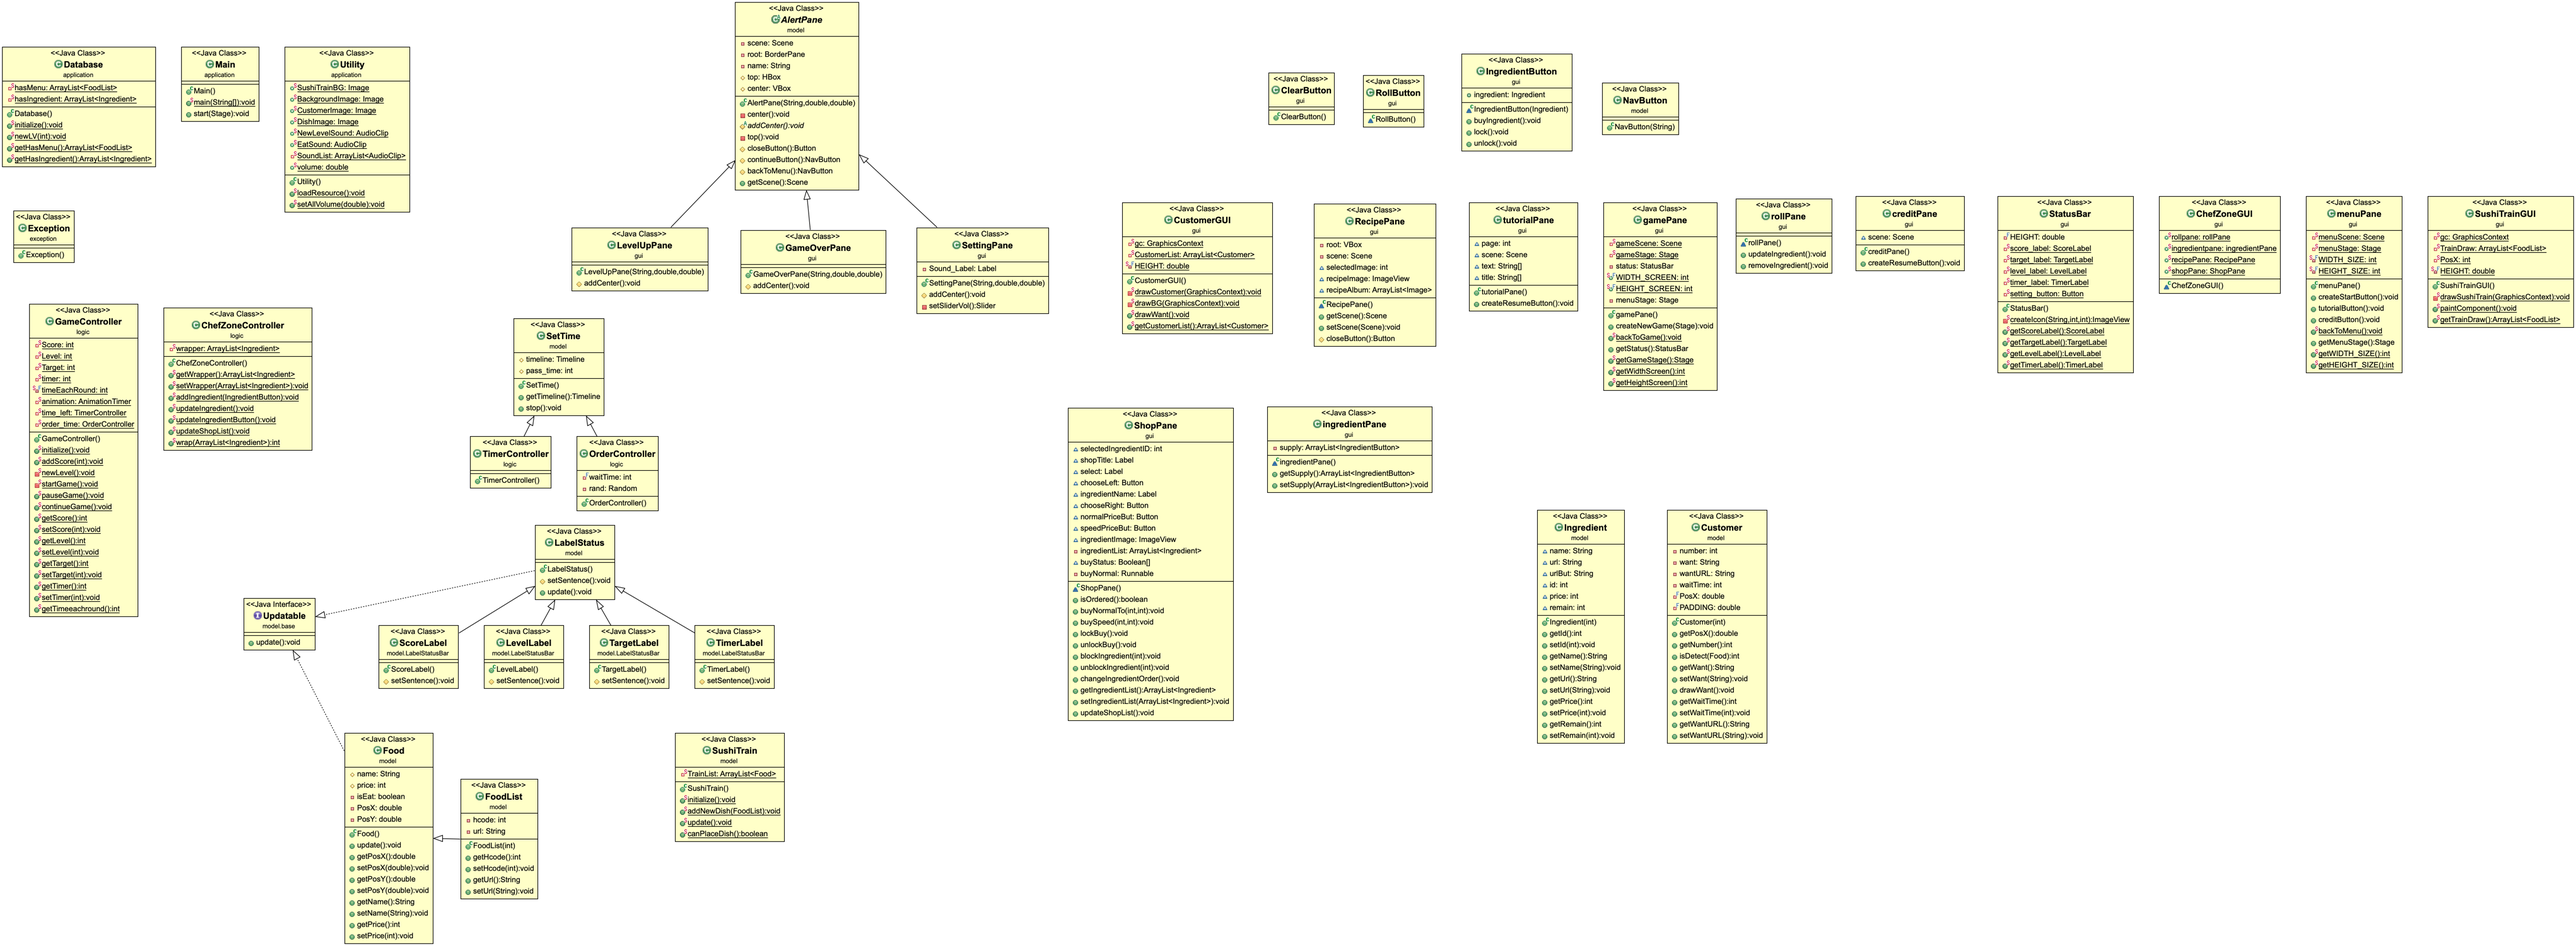
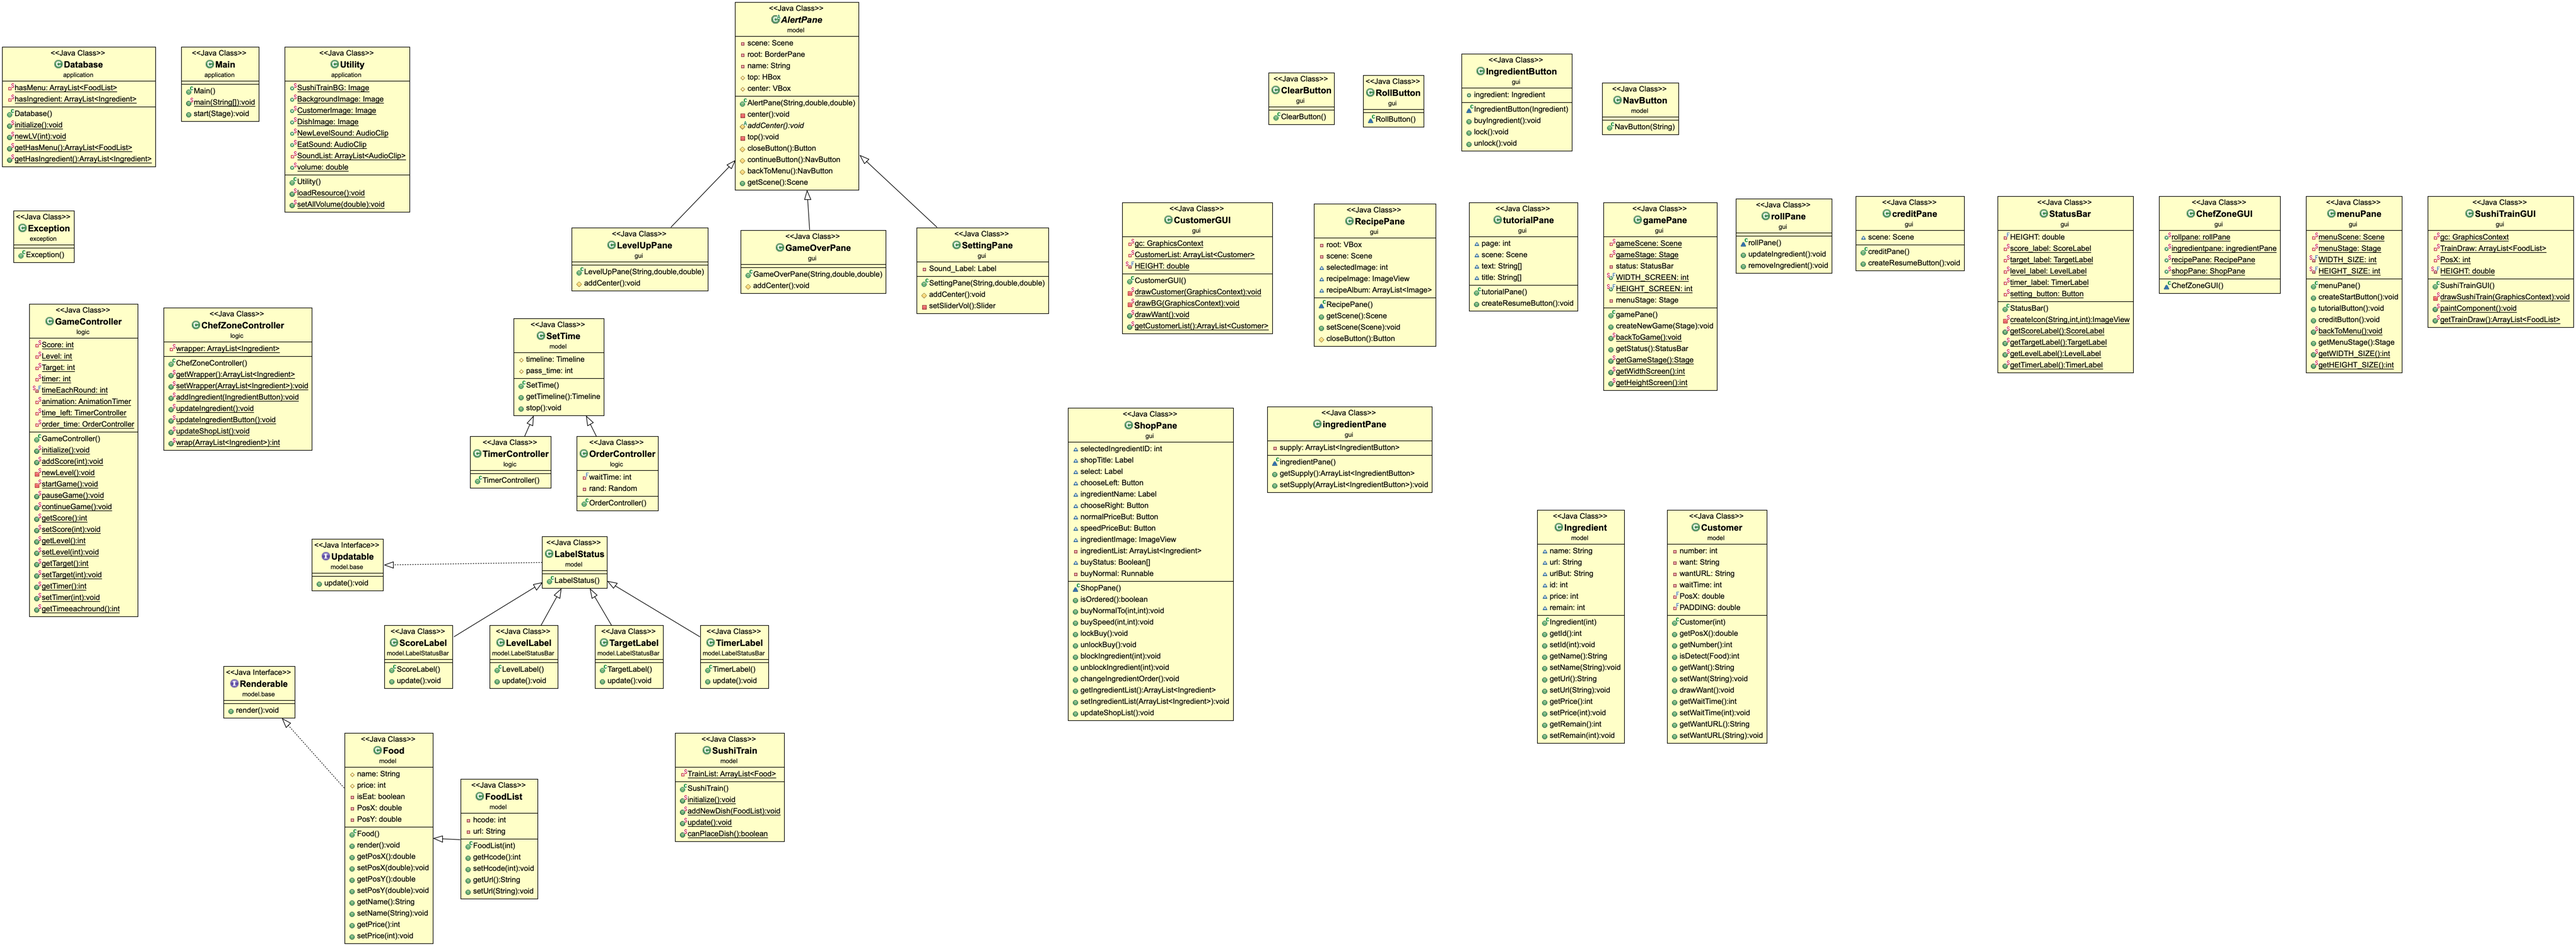
Change interface

Changed region(s): [[0.0622, 0.5516, 0.311, 0.7662], [0.1866, 0.5516, 0.2488, 0.6436]]

diff --git a/src/model/Food.java b/src/model/Food.java
@@ -4,9 +4,9 @@ import gui.CustomerGUI;
 import gui.SushiTrainGUI;
 import gui.gamePane;
 import logic.GameController;
-import model.base.Updatable;
+import model.base.Renderable;
 
-public class Food implements Updatable {
+public class Food implements Renderable {
 	protected String name;
 	protected int price;
 	//position of food after serving
@@ -15,7 +15,7 @@ public class Food implements Updatable {
 	private double PosY = 0;
 
 	@Override
-	public void update() {
+	public void render() {
 		if(!isEat) {
 			if(PosX > gamePane.WIDTH_SCREEN) {
 				PosX = -15;

diff --git a/src/model/LabelStatus.java b/src/model/LabelStatus.java
@@ -5,20 +5,12 @@ import javafx.scene.control.Label;
 import javafx.scene.text.Font;
 import model.base.Updatable;
 
-public class LabelStatus extends Label implements Updatable {
+public abstract class LabelStatus extends Label implements Updatable {
 	
 	public LabelStatus() {
 		this.setFont(new Font(20));
 		this.setPadding(new Insets(0,130,0,0));
-		setSentence();
-	}
-	
-	protected void setSentence() {
-		//set sentence
+		update();
 	}
 
-	@Override
-	public void update() {
-		setSentence();
-	}
 }

diff --git a/src/model/LabelStatusBar/TimerLabel.java b/src/model/LabelStatusBar/TimerLabel.java
@@ -6,7 +6,7 @@ import model.LabelStatus;
 public class TimerLabel extends LabelStatus {
 
 	@Override
-	protected void setSentence() {
+	public void update() {
 		// TODO Auto-generated method stub
 		this.textProperty().setValue("  : " + GameController.getTimer() + " s");
 	}

diff --git a/src/model/LabelStatusBar/ScoreLabel.java b/src/model/LabelStatusBar/ScoreLabel.java
@@ -6,8 +6,8 @@ import model.LabelStatus;
 public class ScoreLabel extends LabelStatus {
 
 	@Override
-	protected void setSentence() {
+	public void update() {
 		this.textProperty().setValue(" : " + GameController.getScore());
 	}
-	
+
 }

diff --git a/src/model/LabelStatusBar/LevelLabel.java b/src/model/LabelStatusBar/LevelLabel.java
@@ -6,7 +6,7 @@ import model.LabelStatus;
 public class LevelLabel extends LabelStatus {
 
 	@Override
-	protected void setSentence() {
+	public void update() {
 		this.textProperty().setValue("Level : " + GameController.getLevel());
 	}
 

diff --git a/src/model/LabelStatusBar/TargetLabel.java b/src/model/LabelStatusBar/TargetLabel.java
@@ -6,7 +6,7 @@ import model.LabelStatus;
 public class TargetLabel extends LabelStatus{
 	
 	@Override
-	protected void setSentence() {
+	public void update() {
 		this.textProperty().setValue(" : " + GameController.getTarget());
 	}
 

diff --git a/src/model/SushiTrain.java b/src/model/SushiTrain.java
@@ -18,7 +18,7 @@ public class SushiTrain {
 	
 	public static void update() {
 		for(Food e : TrainList) {
-			e.update();
+			e.render();
 		}
 	}
 

diff --git a/src/model/base/Updatable.java b/src/model/base/Updatable.java
@@ -1,7 +1,5 @@
 package model.base;
 
 public interface Updatable {
-	
-    public void update();
-    
+	public void update();
 }

diff --git a/src/model/base/Renderable.java b/src/model/base/Renderable.java
@@ -1,0 +1,7 @@
+package model.base;
+
+public interface Renderable {
+	
+    public void render();
+    
+}
